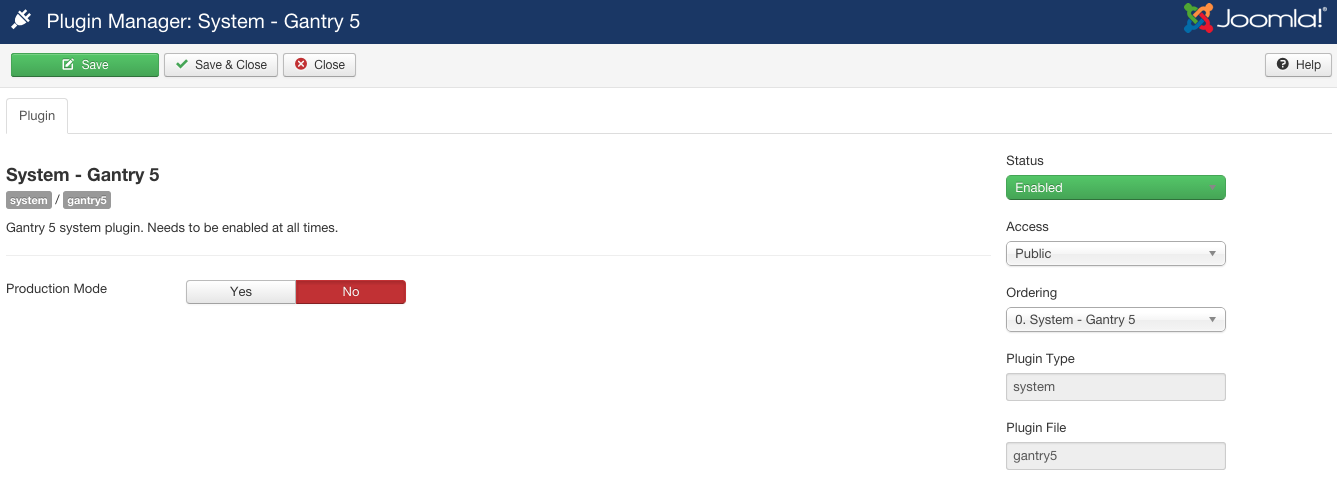
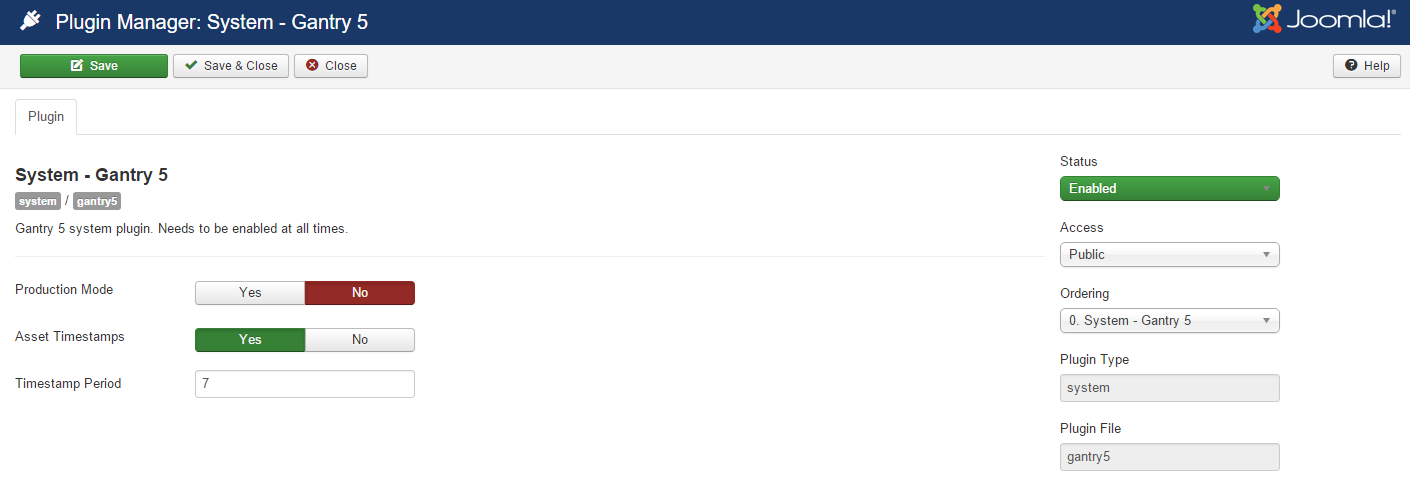
Updated Extras Docs for Joomla (per #51)

diff --git a/pages/01.gantry5/02.configure/07.extras/docs.md b/pages/01.gantry5/02.configure/07.extras/docs.md
@@ -41,6 +41,10 @@ In the future, more **Development** vs. **Production** actions will be tied to t
 
 There is an alternative method for toggling this feature, accessible by navigating to **Administrator → Extensions → Plugin Manager** and selecting the **System - Gantry 5** plugin.
 
+You can also use this settings page to toggle **Asset Timestamps**. This feature adds timestamps on changed asset files, like images, CSS and JS. This option tells the browser to retrieve fresh assets without forcing reload on the page. NOTE: Timestamps are always enabled in development mode.
+
+The **Timestamp Period** field enables you to set the number of days which a timestamp is kept after updating the file. You can enter whole or decimal numbers (example: 0.5, 12, 21, 3, etc.). Set to **0** to add timestamps on every single asset file.
+
 {% endset %}
 {% set tab2 %}
 
